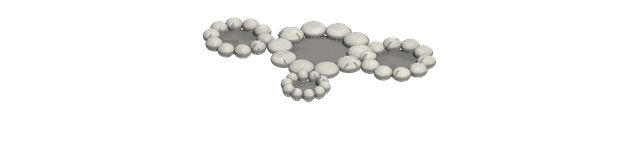
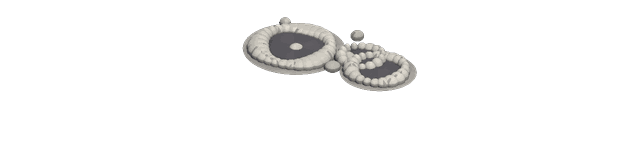
G-32: Sandbänke und Krater vielfältiger, Kulisse gleich verteilt
g20_flaechen.py: vier neue Sandbänke (Zunge, Sichel, Kette, Priel) und alle sieben
Kraterfelder gröber (geschlossener Wall, Zentralberg, Auswurfdecke), je 1x und @2x.
Flächen liegen an jedem zweiten Platz gespiegelt. Die Mischzahl der Kulisse mischt jetzt
gründlich: vorher bekamen in der Grundszenerie fast alle Sandbänke Form 1.

Claude-Session: https://claude.ai/code/session_01D3DJ49U9RTD5BibT4R8tCL

Changed region(s): [[0.3125, 0.1067, 0.6875, 0.6933]]

diff --git a/src/ui/bastion/grafik/kulisse.ts b/src/ui/bastion/grafik/kulisse.ts
@@ -98,7 +98,7 @@ const THEMEN: Record<Thema, KulissenThema> = {
     ],
     flaechen: ['sandbank', 'riff', 'riff', 'sandbank'],
     leben: ['moewen'],
-    varianten: { sandbank: 3, riff: 3 },
+    varianten: { sandbank: 7, riff: 3 },
     jahreszeitDinge: ['inselchen', 'steg', 'felseninsel'],
     jahreszeitBoden: true,
     insel: { oben: '#7bb257', wand: '#5d7f46', strand: '#e4d3a2' },
@@ -269,7 +269,7 @@ const THEMEN: Record<Thema, KulissenThema> = {
     ],
     flaechen: ['kraterfeld', 'kraterfeld'],
     leben: ['satellit'],
-    varianten: { kraterfeld: 3, geroell: 3, eisbrocken: 3 },
+    varianten: { kraterfeld: 7, geroell: 3, eisbrocken: 3 },
     jahreszeitDinge: [],
     jahreszeitBoden: false,
     insel: { oben: '#a6a29b', wand: '#7c7974' },
@@ -336,6 +336,8 @@ export interface Ding {
   readonly flach?: boolean;
   /** Welche Form (1 = Grundbild, 2, 3 …), siehe `varianten` */
   readonly variante?: number;
+  /** Fläche seitenverkehrt zeigen (mehr Abwechslung ohne weitere Bilder) */
+  readonly gespiegelt?: boolean;
 }
 
 /** Breite der Ding-Bilder in Bühnen-Bildpunkten (doppelt gezeichnet, Fuß unten Mitte) */
@@ -360,10 +362,22 @@ export function dingeUmBauplatz(
 
 /** Feste Mischzahl 0 … 1 (kein Zufall zur Laufzeit) */
 function misch(a: number, b: number, k: number, szenerie = 0): number {
-  let h = (Math.imul(a + 101, 2654435761) ^ Math.imul(b + 307, 2246822519) ^ (k * 97)) >>> 0;
-  // Eigene Szenerie des Kindes: der Startwert mischt alles neu (0 = Grundszenerie)
-  if (szenerie !== 0) h = (Math.imul(h ^ szenerie, 2246822519) ^ (h >>> 13)) >>> 0;
-  return ((h >>> 9) % 10000) / 10000;
+  // Alle vier Eingaben gehen mit eigenem Faktor ein; danach gründlich durchmischen.
+  // Früher veränderte `k` nur die untersten Bits, die abgeschnitten wurden: In der
+  // Grundszenerie hingen „ist eine Fläche“ und „welche Form“ fast gleich zusammen, und
+  // fast alle Sandbänke bekamen Form 1 (04.11.2026). Eigene Szenerie: der Startwert
+  // mischt alles neu (0 = Grundszenerie).
+  let h =
+    Math.imul(a + 101, 2654435761) ^
+    Math.imul(b + 307, 2246822519) ^
+    Math.imul(k + 13, 3266489917) ^
+    Math.imul(szenerie + 1, 668265263);
+  h ^= h >>> 16;
+  h = Math.imul(h, 2246822507);
+  h ^= h >>> 13;
+  h = Math.imul(h, 3266489909);
+  h ^= h >>> 16;
+  return ((h >>> 0) % 10000) / 10000;
 }
 
 /** Wie weit die Kulisse um den Bauplatz reicht (Felder) – bis über den Bildrand */
@@ -447,6 +461,8 @@ export function kulissenDinge(
         breite: bildBreite,
         ...(flach ? { flach: true } : {}),
         ...(variante > 1 ? { variante } : {}),
+        // Flächen liegen flach: gespiegelt wirken sie wie eine weitere Form (fest je Zelle)
+        ...(flach && misch(i, j, 8, szenerie) < 0.5 ? { gespiegelt: true } : {}),
       });
     }
   const tiefeVon = (d: Ding) => d.gx + d.gy;

diff --git a/src/ui/bastion/Kulisse.svelte b/src/ui/bastion/Kulisse.svelte
@@ -336,6 +336,7 @@
           class="ding"
           class:flach={d.flach}
           class:tier={d.tier}
+          class:gespiegelt={d.gespiegelt}
           src="{basis}dinge/{d.bild}.png"
           srcset="{basis}dinge/{d.bild}.png 1x, {basis}dinge/{d.bild}@2x.png 2x"
           alt=""
@@ -554,6 +555,11 @@
   /* Flächen am Boden: Fuß in der Mitte, nicht unten */
   .ding.flach {
     translate: -50% -60%;
+  }
+
+  /* Seitenverkehrt (feste Wahl je Platz): ruhend, also keine eigene Grafikebene */
+  .ding.gespiegelt {
+    scale: -1 1;
   }
 
   .kreis {

diff --git a/tools/grafik/g20_flaechen.py b/tools/grafik/g20_flaechen.py
@@ -1,0 +1,161 @@
+#!/usr/bin/env python3
+"""G20: Mehr Formen für Sandbänke und Kraterfelder (offen aus der Sitzung 03.11.2026:
+„Weniger gleichförmige Sandbänke“, „Gröbere Kraterfelder – wirken noch wie Punktringe“).
+
+- Sandbänke 4–7: lang gestreckte Landzungen, Sicheln, kleine Inselketten, mit Prielen
+  (nasse, dunklere Rinnen), Muscheln und Treibholz. Die Körper sind Ellipsoide mit eigener
+  Länge und Breite statt runder Kugeln.
+- Kraterfelder 1–7: Ränder als durchgehender, grober Wall (dicht überlappende, flache
+  Ellipsoide), große Krater mit Zentralberg, helle Auswurfdecke außen. Die alten Bilder 1–3
+  werden ersetzt, die Plätze in der App bleiben gleich.
+
+Rechnet je Bild 1x und @2x (doppelte Größe, unten bündig wie G17). Formen aus einer festen
+Zahlenfolge je Variante (`random.Random(Startwert)`), bei jedem Lauf gleich.
+
+Aufruf: python3 tools/grafik/g20_flaechen.py   (etwa zwei Minuten)
+"""
+from __future__ import annotations
+
+import math
+import random
+import shutil
+import sys
+from multiprocessing import Pool
+from pathlib import Path
+
+import numpy as np
+from PIL import Image
+
+sys.dont_write_bytecode = True
+sys.path.insert(0, str(Path(__file__).resolve().parent))
+from raum import Koerper, Szene, _z, rendern  # noqa: E402
+
+ZIEL = Path(__file__).resolve().parents[2] / "public" / "grafik" / "atlas" / "kulisse"
+SAND = (222, 204, 160)
+NASS = (190, 172, 132)
+PRIEL = (150, 160, 150)
+MUSCHEL = (238, 226, 214)
+HOLZ = (128, 100, 72)
+WALL = (164, 160, 152)
+BODEN = (70, 68, 72)
+AUSWURF = (138, 134, 130)
+
+
+def ellipsoid(sz: Szene, cx, cy, z, rx, ry, rz, mat, farbe) -> None:
+    """Wie `Szene.kugel`, aber mit eigener Länge (rx) und Breite (ry) in Feldern."""
+    cz = _z(z)
+    ecken = np.array([(cx - rx, cy - ry, cz - rz), (cx + rx, cy + ry, cz + rz)])
+    sz.koerper.append(
+        Koerper(None, mat, farbe, ecken, kugel=(cx, cy, cz, rx, ry, rz, -99.0), mitte=np.array([cx, cy, cz]), radius=max(rx, ry, rz) * 1.01)
+    )
+
+
+def szene() -> Szene:
+    sz = Szene()
+    sz.schatten_r = 0.0
+    return sz
+
+
+def sandbank(v: int) -> Szene:
+    """Form je Variante: 4 Landzunge, 5 Sichel, 6 Inselkette, 7 breite Bank mit Priel."""
+    z = random.Random(700 + v)
+    sz = szene()
+    teile: list[tuple] = []
+    if v == 4:
+        # lange, schmale Zunge schräg über das Feld, zur Spitze dünner
+        for k in range(7):
+            t = k / 6
+            teile.append((-0.7 + 1.4 * t, 0.35 - 0.7 * t + 0.08 * math.sin(t * 5), 0.32 * (1 - 0.6 * t) + 0.08, 0.16 * (1 - 0.5 * t) + 0.06))
+    elif v == 5:
+        # Sichel um eine stille Lagune
+        for k in range(8):
+            a = math.pi * (0.15 + 0.7 * k / 7)
+            teile.append((0.55 * math.cos(a) * 1.2, -0.1 + 0.5 * math.sin(a) - 0.25, 0.2, 0.14 + 0.06 * math.sin(a)))
+    elif v == 6:
+        # Kette aus drei bis vier kleinen Inselchen
+        for k in range(4):
+            teile.append((-0.6 + 0.4 * k + z.uniform(-0.05, 0.05), 0.3 - 0.2 * k + z.uniform(-0.06, 0.06), z.uniform(0.14, 0.24), z.uniform(0.1, 0.16)))
+    else:
+        # breite Bank mit Ausbuchtungen
+        for _ in range(6):
+            teile.append((z.uniform(-0.45, 0.45), z.uniform(-0.3, 0.3), z.uniform(0.25, 0.42), z.uniform(0.15, 0.28)))
+    for x, y, rx, ry in teile:
+        ellipsoid(sz, x, y, 0, rx + 0.12, ry + 0.1, 0.03, "sand", NASS)
+    for x, y, rx, ry in teile:
+        ellipsoid(sz, x, y, 1, rx, ry, 0.05, "sand", SAND)
+    if v in (5, 7):
+        # Priel: dunkle, nasse Rinne quer durch die Bank
+        for k in range(5):
+            ellipsoid(sz, -0.35 + 0.17 * k, 0.05 * math.sin(k), 2, 0.09, 0.035, 0.012, "glatt", PRIEL)
+    for _ in range(3 + v % 3):
+        x, y, _, _ = teile[z.randrange(len(teile))]
+        sz.kugel(x + z.uniform(-0.1, 0.1), y + z.uniform(-0.06, 0.06), 3, 0.04, "glatt", MUSCHEL, rz=0.02)
+    if v in (4, 7):
+        # Treibholz
+        x, y, _, _ = teile[len(teile) // 2]
+        sz.balken((x - 0.14, y + 0.02, 4), (x + 0.12, y - 0.03, 4), 0.03, 0.03, "holz", HOLZ)
+    return sz
+
+
+def kraterfeld(v: int) -> Szene:
+    """Grobe Krater: durchgehender Wall, große mit Zentralberg, helle Auswurfdecke."""
+    z = random.Random(900 + v)
+    sz = szene()
+    anzahl = 2 + (v % 3)
+    krater = []
+    for k in range(anzahl):
+        r = z.uniform(0.18, 0.38) if k == 0 else z.uniform(0.1, 0.24)
+        krater.append((z.uniform(-0.5, 0.5), z.uniform(-0.38, 0.38), r))
+    for x, y, r in krater:
+        # Auswurfdecke: flacher, heller Hof um den Krater
+        ellipsoid(sz, x, y, -1, r * 1.45, r * 1.4, 0.008, "stein", AUSWURF)
+    for x, y, r in krater:
+        ellipsoid(sz, x, y, 0, r * 0.92, r * 0.9, 0.012, "stein", BODEN)
+        # Wall aus dicht überlappenden, flachen Stücken: wirkt geschlossen statt als Perlenkette
+        n = max(14, int(r * 110))
+        for i in range(n):
+            a = 2 * math.pi * i / n
+            dicke = r * (0.24 + 0.07 * math.sin(a * 3 + v))
+            sz.kugel(x + r * math.cos(a), y + r * math.sin(a), 0, dicke, "stein", WALL, rz=0.05 + 0.015 * math.cos(a * 2 + v))
+        if r > 0.26:
+            # Zentralberg
+            sz.kugel(x + 0.02, y, -1, r * 0.22, "stein", WALL, rz=0.05)
+    for _ in range(4):
+        sz.kugel(z.uniform(-0.65, 0.65), z.uniform(-0.5, 0.5), 0, z.uniform(0.04, 0.07), "stein", (150, 146, 140), rz=0.04)
+    return sz
+
+
+def speichern(bild: Image.Image, pfad: Path) -> None:
+    pfad.parent.mkdir(parents=True, exist_ok=True)
+    bild.quantize(256, method=Image.Quantize.FASTOCTREE, dither=Image.Dither.FLOYDSTEINBERG).save(pfad, "PNG", optimize=True)
+
+
+def job(a):
+    thema, name, v = a
+    fn = sandbank if name == "sandbank" else kraterfeld
+    felder = 2
+    tag, _ = rendern(fn(v), 160 * felder, felder, schatten_r=0.0)
+    datei = f"{name}.png" if v == 1 else f"{name}_{v}.png"
+    ziel = ZIEL / thema / "dinge" / datei
+    speichern(tag, ziel)
+    gross, _ = rendern(fn(v), 320 * felder, felder, s=2, schatten_r=0.0, skala=2.0)
+    w, h = tag.size
+    neu = Image.new("RGBA", (2 * w, 2 * h), (0, 0, 0, 0))
+    neu.paste(gross, ((2 * w - gross.width) // 2, 2 * h - gross.height), gross)
+    speichern(neu, ziel.with_name(ziel.stem + "@2x.png"))
+    return datei, tag.size
+
+
+def main() -> int:
+    jobs = [("bastion", "sandbank", v) for v in range(4, 8)]
+    jobs += [("weltraum", "kraterfeld", v) for v in range(1, 8)]
+    with Pool(4) as pool:
+        for datei, groesse in pool.imap_unordered(job, jobs):
+            print(datei, groesse, flush=True)
+    shutil.rmtree(Path(__file__).resolve().parent / "__pycache__", ignore_errors=True)
+    print(len(jobs), "Bilder geschrieben")
+    return 0
+
+
+if __name__ == "__main__":
+    sys.exit(main())

diff --git a/docs/GRAFIK.md b/docs/GRAFIK.md
@@ -551,6 +551,9 @@ PV: „Wir brauchen mehr unterschiedliche, z. B. Kraterfelder und Sandbänke und
 - **Eigene Umgebung:** Im Zahnrad „Neue Umgebung würfeln“ (und „Ursprüngliche Umgebung“). Der Startwert wird als Einstellung `basebau.szenerie` gespeichert (Ereignis wie die Kamera, keine Schemaänderung) und mischt Lage, Auswahl, Form und Größe aller Dinge der Kulisse neu; auch die sechs Plätze am Bauplatz. Echter Zufall nur beim Antippen (`src/ui/plattform/zufall.ts`), danach fest. Nur Aussehen: keine Belohnung, nicht ans Lernen gebunden, jederzeit neu oder zurück (R1). 0 = Grundszenerie wie bisher.
 - **Oben und unten gleich voll:** Test prüft, dass über dem Bauplatz etwa so viele Dinge stehen wie darunter.
 
+- **Sandbänke und Krater (04.11.2026, `tools/grafik/g20_flaechen.py`):** vier neue Sandbänke (Landzunge, Sichel um eine Lagune, Inselkette, breite Bank mit Priel; Muscheln, Treibholz), aus Ellipsoiden mit eigener Länge und Breite statt runder Kugeln. Alle sieben Kraterfelder neu und gröber: geschlossener Wall statt Perlenkette, dunkler Boden, große Krater mit Zentralberg, Auswurfdecke außen. Je Bild 1x und @2x. In der App: `sandbank: 7`, `kraterfeld: 7`. Flächen liegen dazu bei jedem zweiten Platz seitenverkehrt (`gespiegelt`, ruhendes `scale`, keine eigene Grafikebene).
+- **Gleich verteilt:** Die Mischzahl `misch` in `kulisse.ts` mischt jetzt alle Eingaben gründlich. Vorher veränderte die Nummer der Frage nur abgeschnittene Bits: In der Grundszenerie hingen „ist eine Fläche“ und „welche Form“ zusammen, 57 von 69 Sandbänken hatten Form 1. Die Grundszenerie sieht dadurch anders aus, bleibt aber fest.
+
 ### 18.3 Noch mehr Dinge und Größen (Wunsch PV, 03.11.2026)
 
 PV: „Mehr Abwechslung, noch mehr unterschiedliche Objekte würfelbar in mehr Größen.“

diff --git a/docs/GRAFIK-SPRITES.md b/docs/GRAFIK-SPRITES.md
@@ -580,6 +580,7 @@ Generatoren (alle deterministisch, nur numpy und Pillow):
 | `tools/grafik/g17_hd.py` | Dieselben Modelle in doppelter Größe als `@2x.png` (Gebäude, Umgebung, Kulisse-Dinge), Manifest `"hd": true`; scharf beim Zoomen auf Geräten mit hoher Pixeldichte |
 | `tools/grafik/g18_fahnen.py` | Lage, Größe und Farbe der Fahnentücher in den Gebäudebildern (ohne Rendern), Manifest `"fahnen"`; die Bühne lässt sie wehen |
 | `tools/grafik/g19_muehle.py` | Windmühle des Dorfs ohne Flügel (`turm_s<k>_ohne`, 1x und @2x), Manifest `"fluegel"`; die Bühne dreht die Flügel |
+| `tools/grafik/g20_flaechen.py` | Vier neue Sandbänke (Zunge, Sichel, Kette, Priel) und alle sieben Kraterfelder gröber (Wall, Zentralberg, Auswurf), je 1x und @2x |
 | `tools/grafik/sprites-g3-hinterhof.py` | Hinterhof und Startbild (aus den neuen Bildern zusammengesetzt) |
 
 Reihenfolge: `g12_atlas.py`, `g12_boden.py`, `g12_rest.py`, `sprites-g3-hinterhof.py`. Die G3-Skripte (`sprites-g3-*.py`, `sprites-g3e-*.py`) sind abgelöst und bleiben als Beleg.

diff --git a/docs/session/GRAFIK-PROTOKOLL.md b/docs/session/GRAFIK-PROTOKOLL.md
@@ -103,3 +103,4 @@
 | 03.11.2026 | **Drehende Mühlenflügel** (Branch `grafik/muehle`, Wunsch PV): Mühle ohne Flügel (`g19_muehle.py`), Bühne dreht vier Flügel; Fahnen berücksichtigen jetzt die Höhenstreckung (35 statt 23); GRAFIK §27 |
 | 03.11.2026 | **Bauen als Schauspiel** (Branch `grafik/baustelle`, Wunsch PV Punkt 5): Kran mit Last und Arbeiter auf dem Gerüst; Kamerafahrt einmal je neuer Epoche (4 s, abbrechbar, nicht bei „Bewegung reduzieren“), Einstellung `basebau.kamerafahrt`; GRAFIK §28 |
 | 03.11.2026 | **Selbst optimiert** (Branch `grafik/vorrat`): keine Kantenglättung ab 2,5-facher Auflösung (rund 100 MB weniger Grafikspeicher auf dem iPhone), Wesen und Bewohner aus einem Vorrat statt 60 neuer Objekte je Sekunde; GRAFIK §24 |
+| 04.11.2026 | **Sandbänke und Krater** (Branch `grafik/flaechen`): `g20_flaechen.py` (4 neue Sandbänke, 7 gröbere Kraterfelder), Flächen gespiegelt, Mischzahl der Kulisse gleich verteilt; GRAFIK §18.2 |

diff --git a/docs/session/GRAFIK.md b/docs/session/GRAFIK.md
@@ -77,7 +77,7 @@ Nach den fünf Punkten unten kamen auf Wunsch des PV hinzu (alle gemergt, je ein
 Offen:
 - Blick des PV auf dem iPhone, ob der Zoom jetzt stabil bleibt. Messung in Chromium ist in §24 beschrieben, Safari selbst ließ sich hier nicht messen.
 - Banner (Fahnenmast) weht noch nicht; das Tuch hängt senkrecht und braucht eine eigene Form.
-- Kraterfelder im Weltraum gröber, Sandbänke weniger gleichförmig.
+- ~~Kraterfelder gröber, Sandbänke weniger gleichförmig~~ – erledigt 04.11.2026 (GRAFIK §18.2).
 - Entscheidung zu BASEBAU §8c (P6 nach B-33/B-34).
 
 ### Auftrag für die nächste Grafik-Sitzung (vorbereitet 02.11.2026)
